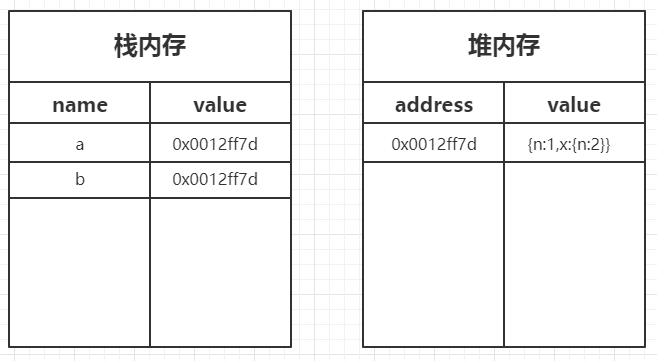
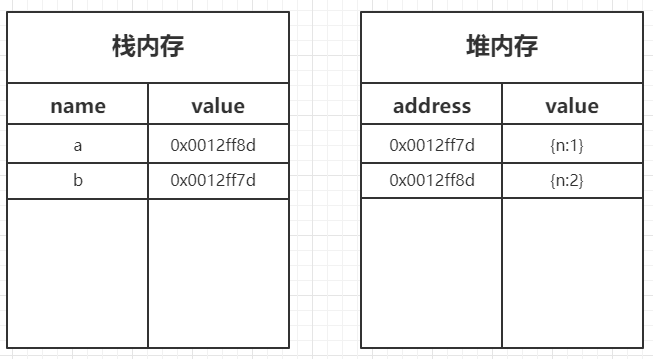
docs: update article shallow clone and deep clone

diff --git a/articles/javascript_shallowCloneandDeepClone_01/javascript_shallowCloneandDeepClone_01.md b/articles/javascript_shallowCloneandDeepClone_01/javascript_shallowCloneandDeepClone_01.md
@@ -1,20 +1,3 @@
-# JS中的值类型和引用类型
-# 注意，这里是草稿
-1.值类型和引用类型
-2.深拷贝和浅拷贝
-
-参考：
-https://juejin.im/post/5f1f5c41f265da22ab2d7db6
-
-闭包与堆内存：
-https://www.jianshu.com/p/3d6b82f5242c
-
-参数传递:
-https://segmentfault.com/a/1190000011455443
-
-连续赋值:
-https://segmentfault.com/a/1190000008475665
-
 # 深拷贝与浅拷贝
 
 js 的深拷贝，浅拷贝问题在项目的开发过程中是频繁出现的。对于一个合格的前端开发者来说，对于深刻理解它们是必要的，并能合理使用深拷贝浅拷贝处理问题  
@@ -333,21 +316,50 @@ console.log(b.x);
 
 ![alkxXQ.png](https://s1.ax1x.com/2020/07/31/alkxXQ.png)
 
-`a.x = a = {n: 2};` 关键就在这句话，正常的执行顺序应该是 `a = {n:2};a.x = a;`，这里`a.x` 中因为有 `.` 运算符，优先级比 `=` 运算符高，所以会先执行 `a.x = {n:2};`，看下图:  
+`a.x = a = {n: 2};` 关键就在这句话，正常执行顺序应该是 `a = {n:2};a.x = a;`，这里`a.x` 中因为有 `.` 运算符，优先级比 `=` 运算符高，先执行 `a.x` 在 `a` 中声明了一个属性 `x`，等待赋值，执行 `a = {n:2};`，变量 `a` 被重新赋值，指向一个新的地址，看下图:  
 
-[![alMSnf.png](https://s1.ax1x.com/2020/07/31/alMSnf.png)](https://imgchr.com/i/alMSnf)  
+![a1V3Dg.png](https://s1.ax1x.com/2020/07/31/a1V3Dg.png)
 
-接下来执行 `a = {n: 2};`，变量 `a` 被重新赋值，指向一个新的地址，继续看下图:  
+接下来执行 `a.x = a;`，这里也有一个坑点要注意，虽然执行到这里的时候 `a` 的地址已经改变了，但是上面已经说过，`.` 运算符优先级比 `=` 运算符高，`a.x` 在 `a` 的地址没改变之前就声明好了，所以这里 `a.x` 中变量 `a` 使用的是旧地址，让变量 `a` 中属性 `x` 的值指向 `a` 的地址，继续看下图:  
 
-![alMOVU.png](https://s1.ax1x.com/2020/07/31/alMOVU.png)  
+![a1mJVe.png](https://s1.ax1x.com/2020/07/31/a1mJVe.png)
+
+这里 `x` 的值实际上是 `{n:2}`，为了体现地址相同，我在图中写成了指针地址，如果不理解可以看下图:  
+
+![a1mc5j.png](https://s1.ax1x.com/2020/07/31/a1mc5j.png)
 
 这时候执行完毕后的栈内存和堆内存的情况，所以答案就很明显了，`a` 中没有 `x` 属性，所以 `a.x` 输出 `undefined`，`b.x` 输出 `{n:2}`  
 
 **题目2:**
 
 ```javascript
+var a = {"x": 1};
+var b = a;
+a.x = 2;
+console.log(b.x);
 
+
+a = {"x": 3};
+console.log(b.x);
+a.x = 4;
+console.log(b.x);
 ```
+
+输出: `2` `2` `2`  
+
+解析:`var a = {"x": 1};var b = a;`，此时 `a` 和 `b` 指向的是同一个地址，`a.x = 2;` 执行完之后 `b.x` 也等于 2，`a = {"x": 3};` 重新赋值，重新分配新的内存地址，此时 `a` 和 `b` 指向不同地址，所以他们互不影响，所以都输出 2  
+
+----
+
+## 结束语
+
+以上就是关于值类型和引用类型，以及深拷贝浅拷贝的内容。如果本文中有说的不正确的地方，欢迎大佬鞭策!  
+
+**参考资料：**
+
+[聊聊深拷贝浅拷贝](https://juejin.im/post/5f1f5c41f265da22ab2d7db6)  
+[JS中的栈内存堆内存](https://www.jianshu.com/p/3d6b82f5242c)  
+[JS基础-连续赋值](https://segmentfault.com/a/1190000008475665)
 
 
 
